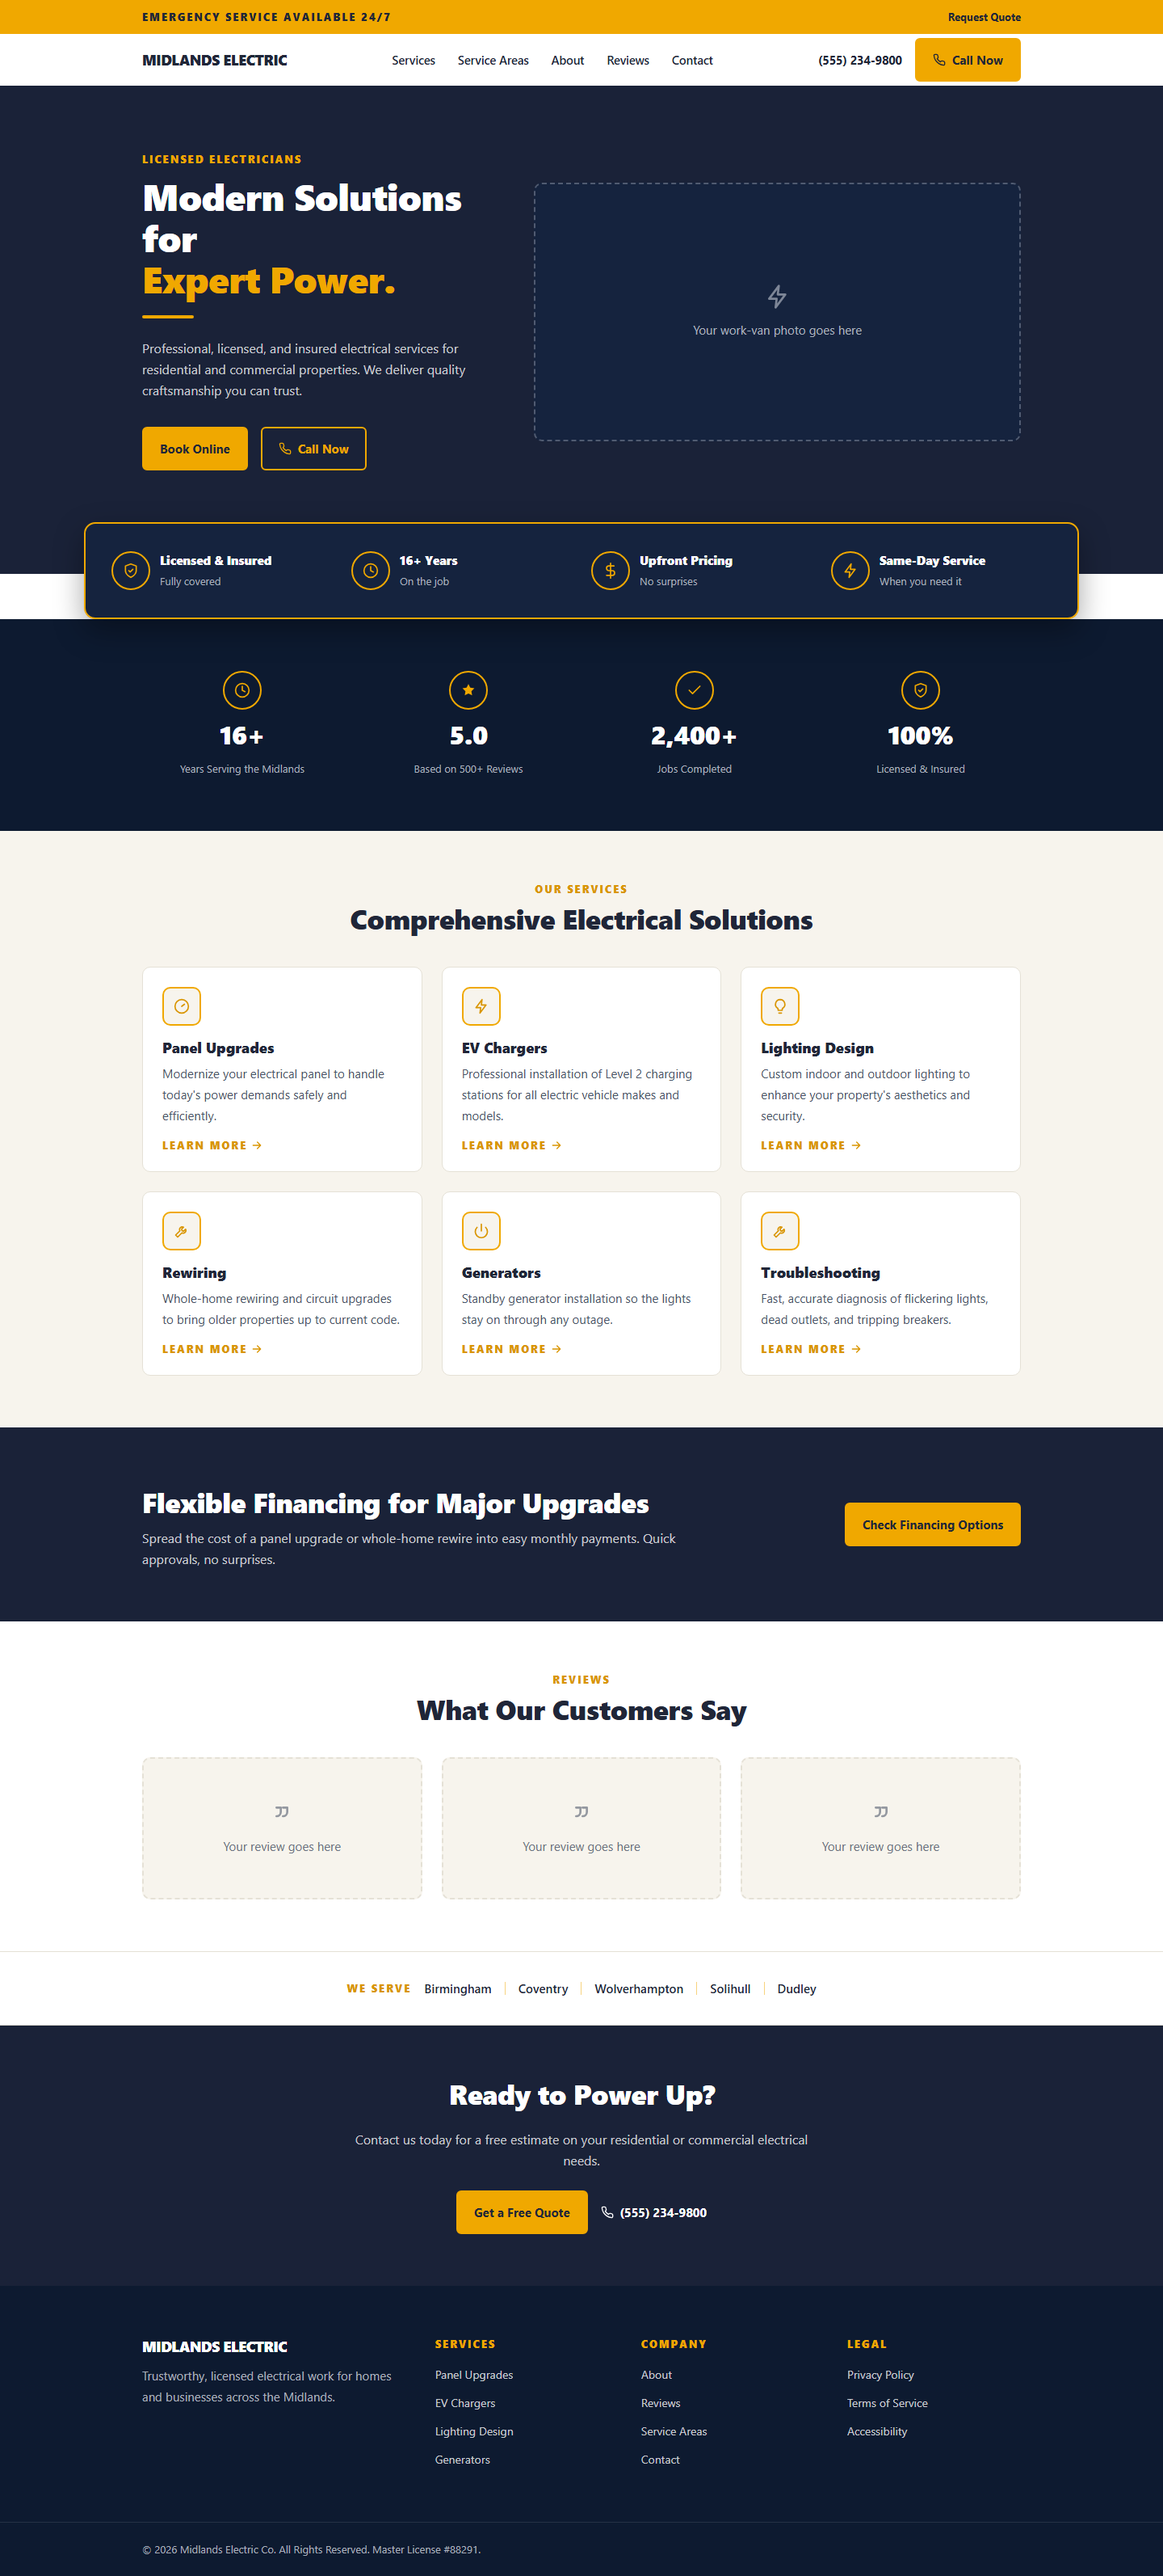
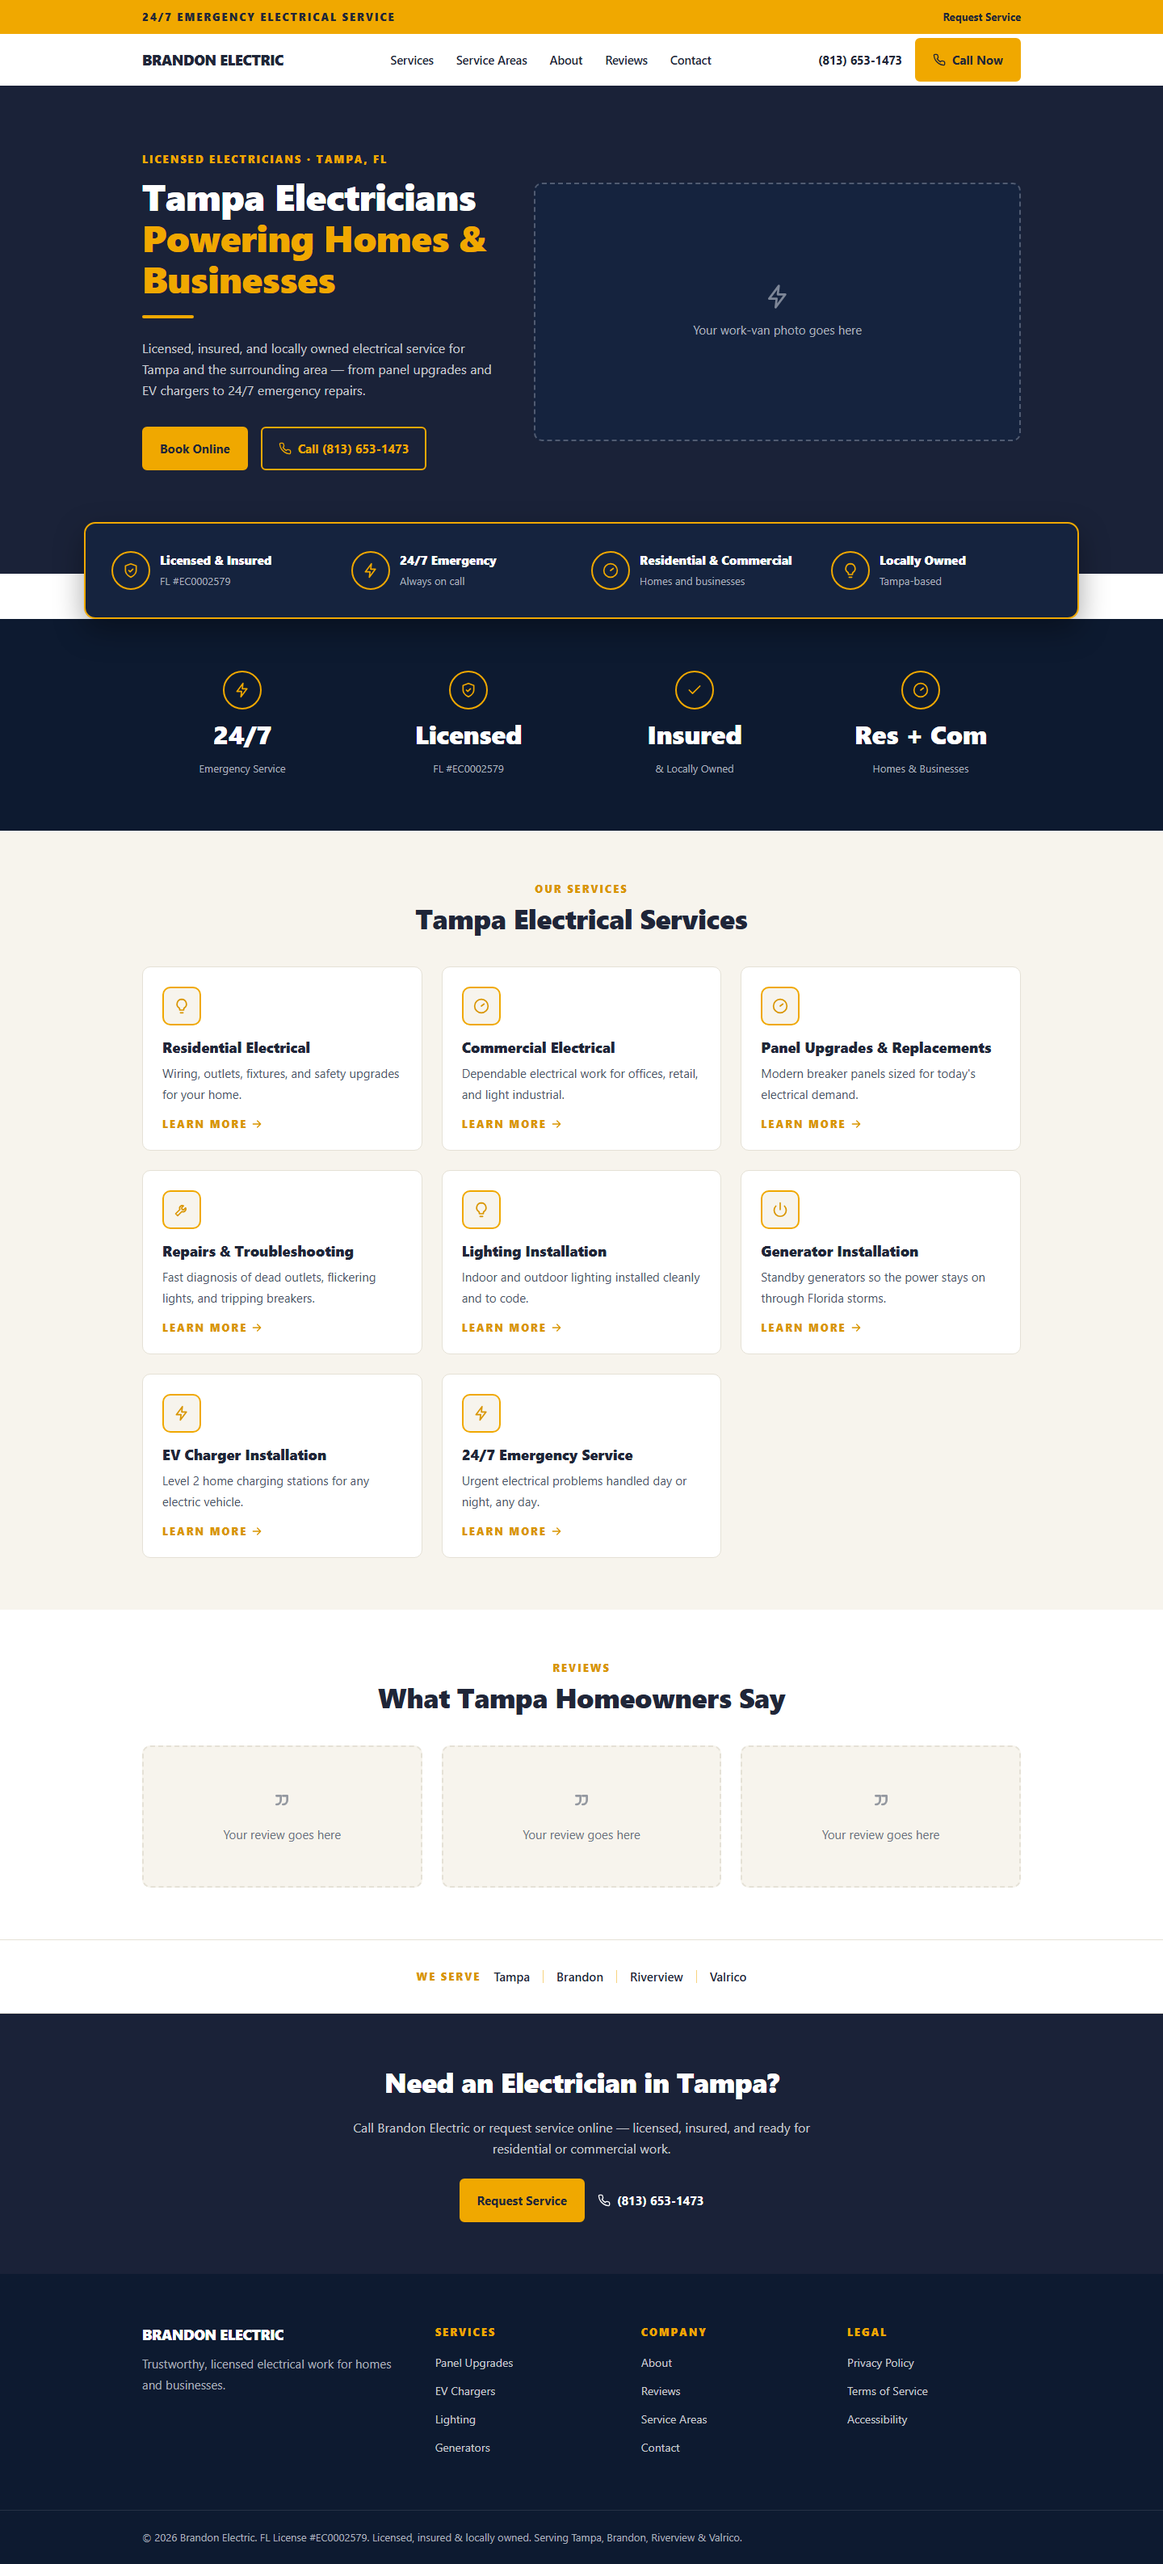
Phase 3: Brandon Electric proof site (real customer from Vantyx pipeline)
- Pull a real prior customer (Brandon Electric, Tampa FL) from the old Paperclip-built demo; rebuild on the house-style library for old-vs-new comparison
- src/content/brandon-electric.ts: real content (services, areas, phone, FL license #EC0002579) extracted from the old demo HTML
- VAN-27 honesty: no fabricated stats/reviews/financing — trust strip uses confirmed facts, testimonials render placeholders, financing band omitted
- financing made optional (type + conditional render + NonNullable in dependents); Footer tagline de-regionalized; layout <title> now reflects active business
- active-site points at Brandon (electric theme); build green; screenshots refreshed

diff --git a/src/content/brandon-electric.ts b/src/content/brandon-electric.ts
@@ -1,0 +1,125 @@
+import type { SiteContent } from "./types";
+
+/*
+ * REAL customer content — Brandon Electric (Tampa, FL), extracted from the old
+ * Vantyx-built demo (Paperclip pipeline). The Phase 3 proof site: same business,
+ * rebuilt on the vantyx-web-os house-style library for an old-vs-new comparison.
+ *
+ * VAN-27 honesty: only confirmed facts from the source are used. No fabricated
+ * star ratings / job counts / years; the old demo had no real review data, so
+ * testimonials render as designed placeholders and there is no financing band.
+ */
+export const brandonElectric: SiteContent = {
+  business: {
+    name: "Brandon Electric",
+    phone: "(813) 653-1473",
+    licenseLine:
+      "© 2026 Brandon Electric. FL License #EC0002579 · Licensed, insured & locally owned.",
+    emergency: {
+      enabled: true,
+      label: "24/7 Emergency Electrical Service",
+      cta: { label: "Request Service", href: "#contact" },
+    },
+  },
+
+  nav: [
+    { label: "Services", href: "#services" },
+    { label: "Service Areas", href: "#areas" },
+    { label: "About", href: "#about" },
+    { label: "Reviews", href: "#reviews" },
+    { label: "Contact", href: "#contact" },
+  ],
+
+  primaryCta: { label: "Call Now", href: "tel:8136531473" },
+
+  hero: {
+    eyebrow: "Licensed Electricians · Tampa, FL",
+    title: "Tampa Electricians",
+    accentLine: "Powering Homes & Businesses",
+    lede: "Licensed, insured, and locally owned electrical service for Tampa and the surrounding area — from panel upgrades and EV chargers to 24/7 emergency repairs.",
+    primaryCta: { label: "Book Online", href: "#contact" },
+    ghostCta: { label: "Call (813) 653-1473", href: "tel:8136531473" },
+    imageCaption: "Your work-van photo goes here",
+    benefits: [
+      { icon: "shield", title: "Licensed & Insured", sub: "FL #EC0002579" },
+      { icon: "bolt", title: "24/7 Emergency", sub: "Always on call" },
+      { icon: "gauge", title: "Residential & Commercial", sub: "Homes and businesses" },
+      { icon: "lightbulb", title: "Locally Owned", sub: "Tampa-based" },
+    ],
+  },
+
+  // Honest trust items only (confirmed from the source — no invented metrics).
+  stats: [
+    { icon: "bolt", value: "24/7", label: "Emergency Service" },
+    { icon: "shield", value: "Licensed", label: "FL #EC0002579" },
+    { icon: "check", value: "Insured", label: "& Locally Owned" },
+    { icon: "gauge", value: "Res + Com", label: "Homes & Businesses" },
+  ],
+
+  services: {
+    eyebrow: "Our Services",
+    heading: "Tampa Electrical Services",
+    items: [
+      { slug: "residential", icon: "lightbulb", title: "Residential Electrical", description: "Wiring, outlets, fixtures, and safety upgrades for your home." },
+      { slug: "commercial", icon: "gauge", title: "Commercial Electrical", description: "Dependable electrical work for offices, retail, and light industrial." },
+      { slug: "panel-upgrades", icon: "gauge", title: "Panel Upgrades & Replacements", description: "Modern breaker panels sized for today's electrical demand." },
+      { slug: "repairs", icon: "wrench", title: "Repairs & Troubleshooting", description: "Fast diagnosis of dead outlets, flickering lights, and tripping breakers." },
+      { slug: "lighting", icon: "lightbulb", title: "Lighting Installation", description: "Indoor and outdoor lighting installed cleanly and to code." },
+      { slug: "generators", icon: "power", title: "Generator Installation", description: "Standby generators so the power stays on through Florida storms." },
+      { slug: "ev-chargers", icon: "bolt", title: "EV Charger Installation", description: "Level 2 home charging stations for any electric vehicle." },
+      { slug: "emergency", icon: "bolt", title: "24/7 Emergency Service", description: "Urgent electrical problems handled day or night, any day." },
+    ],
+  },
+
+  // No financing claim on the source → omitted (never fabricated).
+
+  testimonials: {
+    eyebrow: "Reviews",
+    heading: "What Tampa Homeowners Say",
+    items: [], // no verified reviews in the source → designed placeholders
+  },
+
+  serviceAreas: {
+    eyebrow: "We Serve",
+    cities: ["Tampa", "Brandon", "Riverview", "Valrico"],
+  },
+
+  finalCta: {
+    heading: "Need an Electrician in Tampa?",
+    lede: "Call Brandon Electric or request service online — licensed, insured, and ready for residential or commercial work.",
+    cta: { label: "Request Service", href: "#contact" },
+  },
+
+  footer: {
+    columns: [
+      {
+        title: "Services",
+        links: [
+          { label: "Panel Upgrades", href: "#services" },
+          { label: "EV Chargers", href: "#services" },
+          { label: "Lighting", href: "#services" },
+          { label: "Generators", href: "#services" },
+        ],
+      },
+      {
+        title: "Company",
+        links: [
+          { label: "About", href: "#about" },
+          { label: "Reviews", href: "#reviews" },
+          { label: "Service Areas", href: "#areas" },
+          { label: "Contact", href: "#contact" },
+        ],
+      },
+      {
+        title: "Legal",
+        links: [
+          { label: "Privacy Policy", href: "#" },
+          { label: "Terms of Service", href: "#" },
+          { label: "Accessibility", href: "#" },
+        ],
+      },
+    ],
+    finePrint:
+      "© 2026 Brandon Electric. FL License #EC0002579. Licensed, insured & locally owned. Serving Tampa, Brandon, Riverview & Valrico.",
+  },
+};

diff --git a/src/app/layout.tsx b/src/app/layout.tsx
@@ -1,11 +1,10 @@
 import type { Metadata } from "next";
 import "./globals.css";
-import { themeClass } from "@/config/active-site";
+import { themeClass, activeSite } from "@/config/active-site";
 
 export const metadata: Metadata = {
-  title: "Vantyx Web OS — House Style",
-  description:
-    "Navy + gold house-style design system and component library for trades websites.",
+  title: `${activeSite.content.business.name} | Licensed Electrician`,
+  description: activeSite.content.hero.lede,
 };
 
 export default function RootLayout({

diff --git a/src/content/service-types.ts b/src/content/service-types.ts
@@ -27,7 +27,7 @@ export interface ServicePageContent {
   included: { eyebrow: string; heading: string; items: ChecklistItem[] };
   process: { eyebrow: string; heading: string; steps: ProcessStep[] };
   faq: { eyebrow?: string; heading: string; items: FaqItem[] };
-  financing: SiteContent["financing"];
+  financing: NonNullable<SiteContent["financing"]>;
   gallery: { eyebrow?: string; heading: string; caption: string; count: number };
   related: { eyebrow: string; heading: string; items: Service[] };
 }

diff --git a/src/app/page.tsx b/src/app/page.tsx
@@ -32,7 +32,7 @@ export default function Home() {
           heading={site.services.heading}
           items={site.services.items}
         />
-        <FinancingBand financing={site.financing} />
+        {site.financing && <FinancingBand financing={site.financing} />}
         <Testimonials testimonials={site.testimonials} />
         <ServingAreaRow serviceAreas={site.serviceAreas} />
         <FinalCta finalCta={site.finalCta} business={site.business} />

diff --git a/src/config/active-site.ts b/src/config/active-site.ts
@@ -1,5 +1,5 @@
 import type { SiteContent } from "@/content/types";
-import { midlandsElectric } from "@/content/midlands-electric";
+import { brandonElectric } from "@/content/brandon-electric";
 
 /*
  * The single switch that defines which customer this deployment renders.
@@ -21,7 +21,7 @@ export interface ActiveSite {
 }
 
 export const activeSite: ActiveSite = {
-  content: midlandsElectric,
+  content: brandonElectric,
   theme: "electric",
 };
 

diff --git a/src/components/site/Footer.tsx b/src/components/site/Footer.tsx
@@ -15,8 +15,7 @@ export function Footer({
             {business.name}
           </p>
           <p className="text-body-lede mt-3 max-w-xs text-on-inverse-muted">
-            Trustworthy, licensed electrical work for homes and businesses across
-            the Midlands.
+            Trustworthy, licensed electrical work for homes and businesses.
           </p>
         </div>
         {footer.columns.map((col) => (

diff --git a/src/components/site/FinancingBand.tsx b/src/components/site/FinancingBand.tsx
@@ -5,7 +5,7 @@ import { Eyebrow } from "@/components/ui/Eyebrow";
 export function FinancingBand({
   financing,
 }: {
-  financing: SiteContent["financing"];
+  financing: NonNullable<SiteContent["financing"]>;
 }) {
   return (
     <section className="bg-inverse-surface text-on-inverse">

diff --git a/src/content/types.ts b/src/content/types.ts
@@ -107,7 +107,8 @@ export interface SiteContent {
     items: Service[];
   };
 
-  financing: {
+  /** Optional — omit for customers who don't offer financing (don't invent it). */
+  financing?: {
     eyebrow?: string;
     heading: string;
     lede: string;
